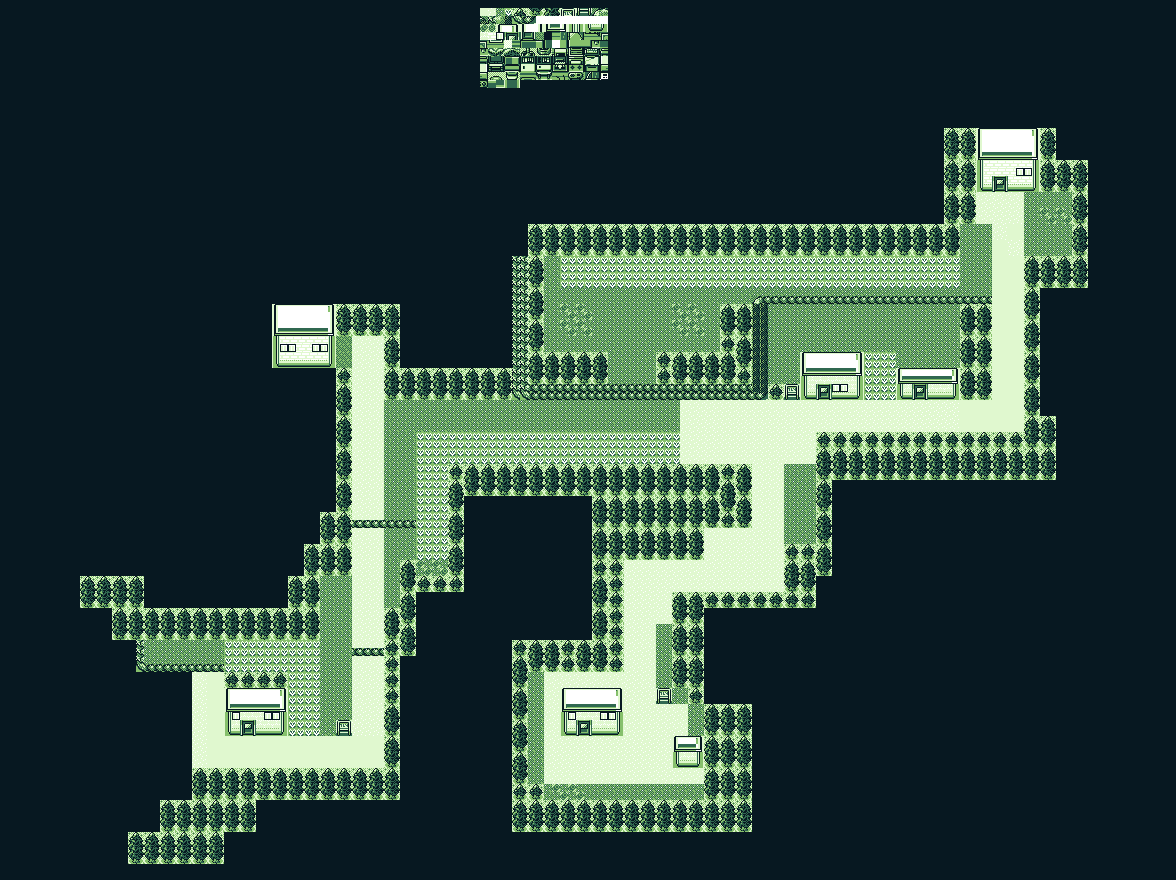
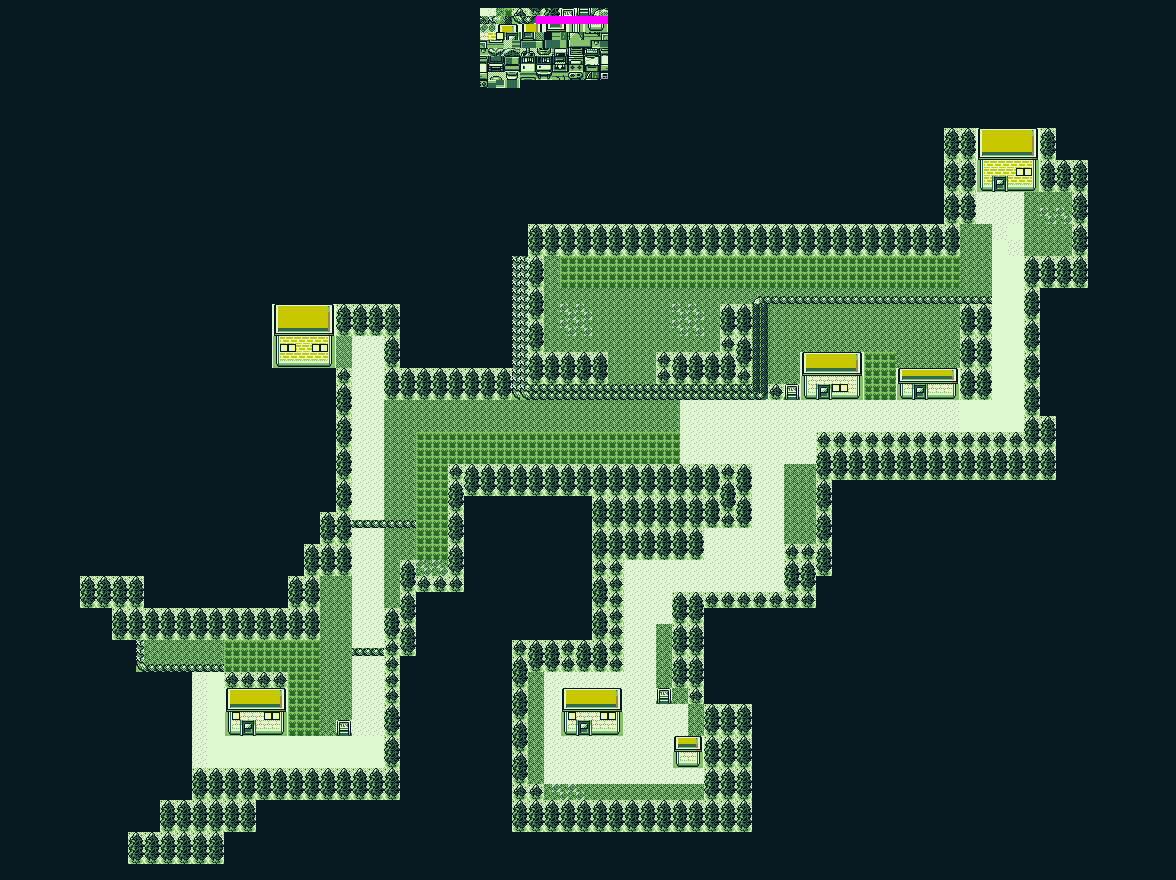
a barely working,but rearchitected attempt

diff --git a/GbColouriser/ImageColouriser.cs b/GbColouriser/ImageColouriser.cs
@@ -10,6 +10,7 @@ namespace GbColouriser
     public class ImageColouriser
     {
         private Dictionary<Color, List<Color>> _colourDictionary;
+        private List<Color> _missingColours;
         private readonly int _width;
         private readonly int _height;
         private readonly Image _image;
@@ -27,6 +28,7 @@ namespace GbColouriser
             _height = height;
             _image = image;
             _colourDictionary = new Dictionary<Color, List<Color>>();
+            _missingColours = new List<Color>();
         }
 
         public TileMetadata[,] Process()
@@ -79,7 +81,7 @@ namespace GbColouriser
                 var tupleList = new List<Tuple<int, Color>>();
 
                 foreach (var distinctColour in distinctColours)
-                {                    
+                {
                     var colourCount = value.Where(x => x == distinctColour).Count();
                     tupleList.Add(new Tuple<int, Color>(colourCount, distinctColour));
                 }
@@ -125,15 +127,19 @@ namespace GbColouriser
                 {
                     var colour = (whites.Count, blacks.Count) switch
                     {
-                        (0, 0) => GBMissing, // come back to this later to see if it can be worked out after other tiles have been processed
+                        (0, 0) => inputTile[i, j], // come back to this later to see if it can be worked out after other tiles have been processed
                         (0, 1) => GBBlack,
                         (1, 0) => GBWhite,
                         (_, _) => throw new Exception("How did we get here?")
                     };
 
-                    _colourDictionary[inputTile[i, j]].Add(colour);
+                    if (colour == inputTile[i, j])
+                    {
+                        _missingColours.Add(colour);
+                    }
 
-                    recolouredTileColours[i, j] = colour;
+                    recolouredTileColours[i,j] = colour;
+                    _colourDictionary[inputTile[i, j]].Add(GBMissing);
                 }
             }
 
@@ -195,7 +201,7 @@ namespace GbColouriser
                     var colour = localColourMap.ContainsKey(inputColour) switch
                     {
                         true => localColourMap[inputColour],
-                        false => GBMissing
+                        false => inputColour
                     };
 
                     _colourDictionary[inputColour].Add(colour);
@@ -256,10 +262,10 @@ namespace GbColouriser
                     var colour = localColourMap.ContainsKey(inputColour) switch
                     {
                         true => localColourMap[inputColour],
-                        false => GBMissing
+                        false => inputColour
                     };
 
-                    _colourDictionary[inputColour].Add(colour);
+                    _colourDictionary[inputColour].Add(GBMissing);
                     recolouredTileColours[i, j] = colour;
                 }
             }
@@ -285,7 +291,7 @@ namespace GbColouriser
 
                     var colour = localColourMap[inputColour];
 
-                    _colourDictionary[inputColour].Add(colour);
+                    _colourDictionary[inputColour].Add(GBMissing);
                     recolouredTileColours[i, j] = colour;
                 }
             }
@@ -304,15 +310,15 @@ namespace GbColouriser
             {
                 for (int j = 0; j < recolouredTileColours.GetLength(1); j++)
                 {
-                    var inputColour = inputTile[i, j];
+                    var inputColour = inputTile[i, j];                    
 
                     var colour = colourDictionary.ContainsKey(inputColour) switch
                     {
                         true => colourDictionary[inputColour],
                         false => inputColour
                     };
-                 
-                    recolouredTileColours[i, j] = colour;                    
+
+                    recolouredTileColours[i, j] = colour;
                 }
             }
 
